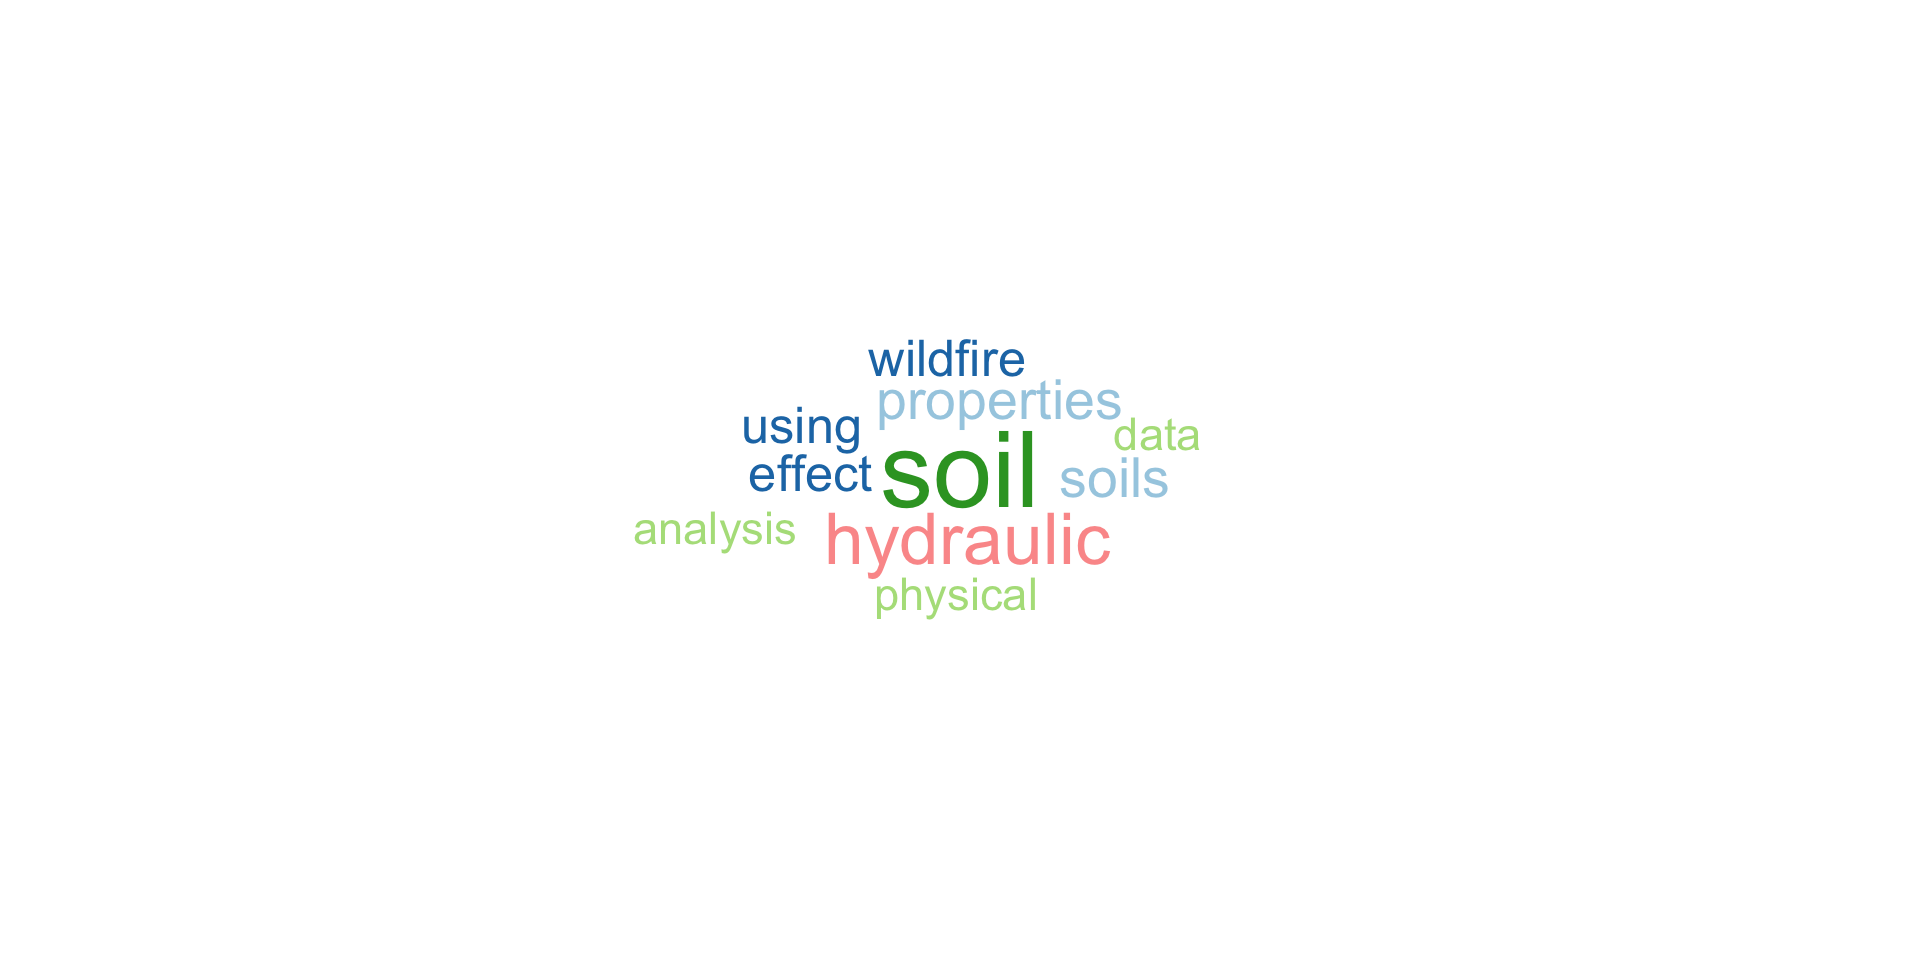
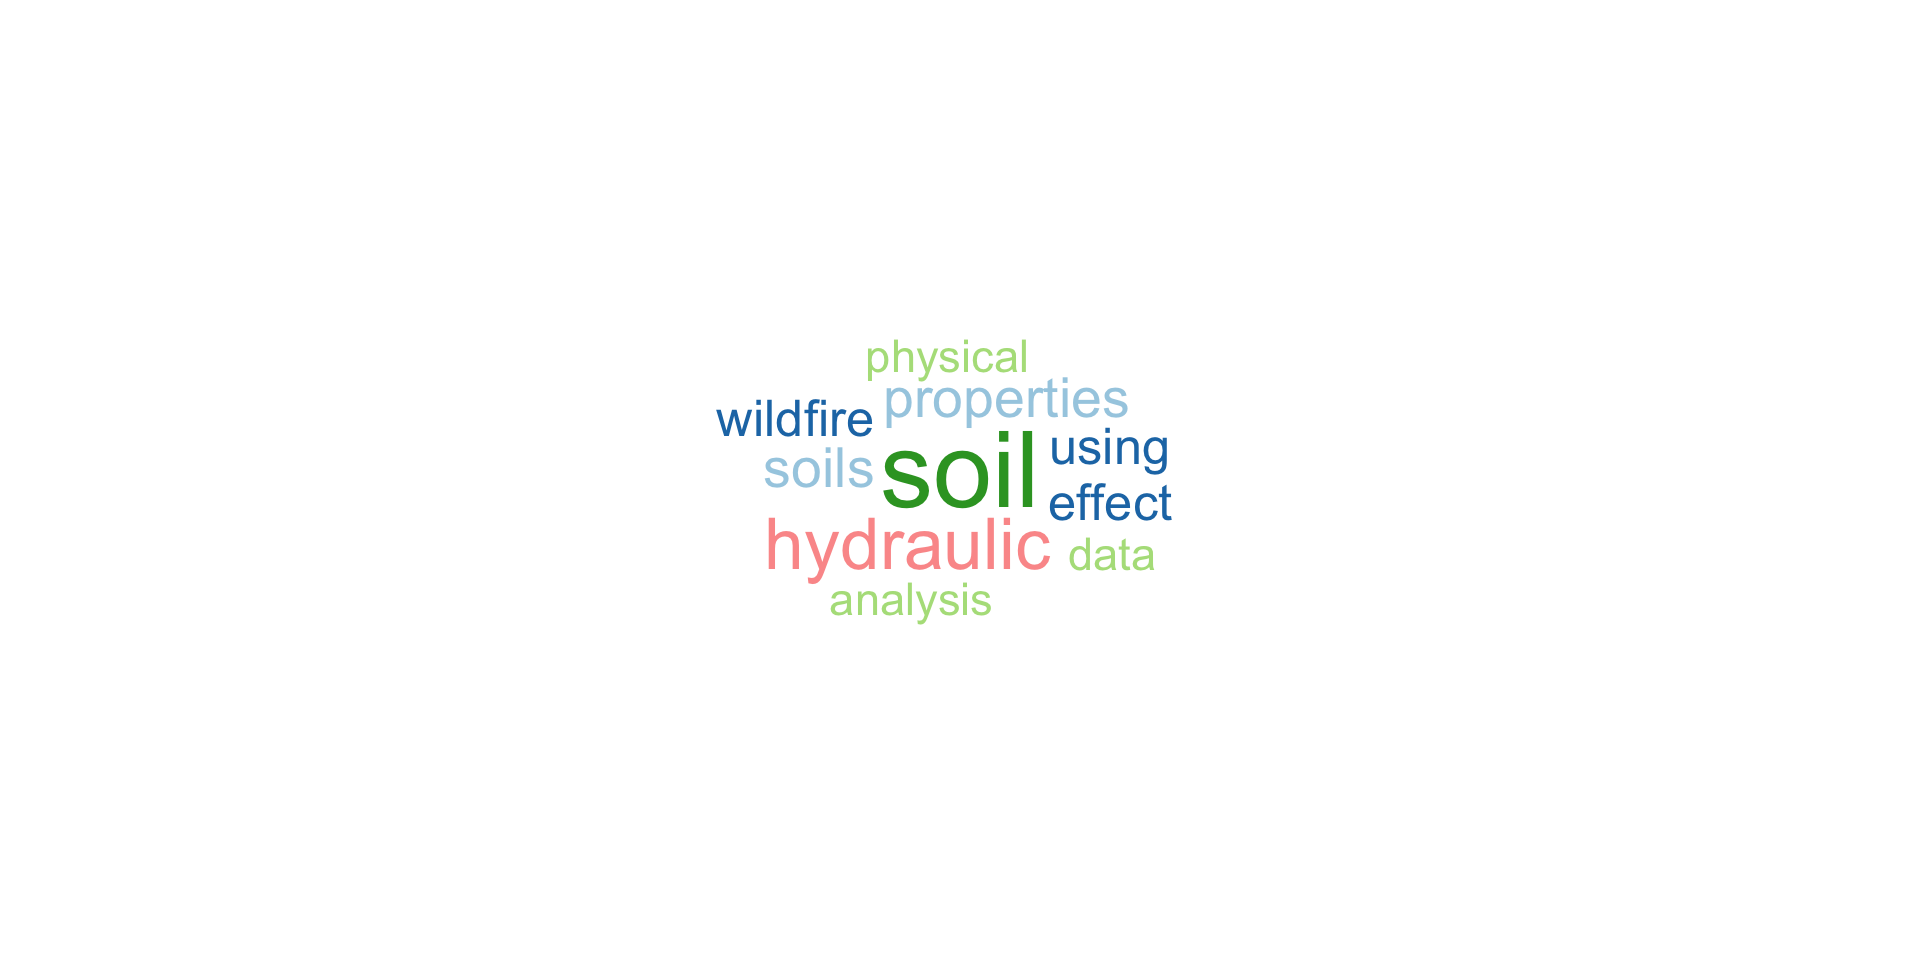
remove pedotransferencia

Changed region(s): [[0.3125, 0.3438, 0.625, 0.6562]]

diff --git a/docs/index.html b/docs/index.html
@@ -503,16 +503,11 @@ Dra. Sara E. Acevedo <a href="https://orcid.org/0000-0003-3203-2106" class="quar
 <h3 id="experimental-clásico-vs.-nuevo">Experimental: clásico vs.&nbsp;nuevo <sup>1</sup></h3>
 <p><img data-src="images/ajuste_pario.png"></p>
 <aside><ol class="aside-footnotes"><li id="fn5"><p><a href="https://doi.org/10.31545/intagr/144387">Acevedo et al., 2021. Testing the integral suspension pressure method for soil particle size analysis across a range of soil organic matter contents</a></p></li></ol></aside></section>
-<section id="física-de-suelos-5" class="slide level2">
-<h2>1. Física de suelos</h2>
-<h3 id="funciones-de-pedotransferencia">Funciones de pedotransferencia</h3>
-<iframe width="780" height="500" src="https://biofisica.shinyapps.io/SWRC/" title="Funciones de Pedotransferencia"></iframe>
-</section>
-<section id="física-de-suelos-6" class="slide level2" data-background-image="images/incendios.jpeg" data-background-size="55%">
+<section id="física-de-suelos-5" class="slide level2" data-background-image="images/incendios.jpeg" data-background-size="55%">
 <h2>1. Física de suelos</h2>
 <h3 id="sus-efectos-en-el-medioambiente">Sus efectos en el medioambiente <sup>1</sup></h3>
 <aside><ol class="aside-footnotes"><li id="fn6"><p><a href="https://doi.org/10.1016/j.jhydrol.2022.128919">Acevedo et al., 2023. Effect of data availability and pedotransfer estimates on water flow modelling in wildfire-affected soils</a></p></li></ol></aside></section>
-<section id="física-de-suelos-7" class="slide level2">
+<section id="física-de-suelos-6" class="slide level2">
 <h2>1. Física de suelos</h2>
 <h3 id="sus-efectos-en-el-medioambiente-1">Sus efectos en el medioambiente <sup>1</sup></h3>
 <div class="fragment fade-up">
@@ -536,7 +531,7 @@ Dra. Sara E. Acevedo <a href="https://orcid.org/0000-0003-3203-2106" class="quar
 </ul>
 </div>
 <aside><ol class="aside-footnotes"><li id="fn7"><p><a href="https://doi.org/10.1016/j.jhydrol.2022.128919">Acevedo et al., 2023. Effect of data availability and pedotransfer estimates on water flow modelling in wildfire-affected soils</a></p></li></ol></aside></section>
-<section id="física-de-suelos-8" class="slide level2">
+<section id="física-de-suelos-7" class="slide level2">
 <h2>1. Física de suelos</h2>
 <h3 id="suelos-quemados-son-diferentes">Suelos quemados son diferentes <sup>1</sup></h3>
 <div class="quarto-figure quarto-figure-center">
@@ -850,8 +845,8 @@ Dra. Sara E. Acevedo <a href="https://orcid.org/0000-0003-3203-2106" class="quar
 <div class="cell">
 <div class="cell-output-display">
 
-<div class="leaflet html-widget html-fill-item-overflow-hidden html-fill-item" id="htmlwidget-9ce5fa6a09a0d30f0378" style="width:960px;height:480px;"></div>
-<script type="application/json" data-for="htmlwidget-9ce5fa6a09a0d30f0378">{"x":{"options":{"crs":{"crsClass":"L.CRS.EPSG3857","code":null,"proj4def":null,"projectedBounds":null,"options":{}}},"calls":[{"method":"addProviderTiles","args":["OpenStreetMap.Mapnik",null,null,{"errorTileUrl":"","noWrap":false,"detectRetina":false}]},{"method":"addMarkers","args":[[38.538232,51.969187,-33.4996417,41.887667,27.979168,32.715736,29.492441,-50.9423262,-18.48027777,37.870151,45.8162432],[-121.761712,5.665395,-70.76693059999999,-87.62252100000001,-82.539337,-117.161087,-98.610573,-73.4067879,-70.32361111,-122.2594606,-119.28251],null,null,null,{"interactive":true,"draggable":false,"keyboard":true,"title":"","alt":"","zIndexOffset":0,"opacity":1,"riseOnHover":false,"riseOffset":250},["UC-Davis","Wageningen University","PUC","POSIT","SSSA","SSSA","SSSA","Muestreo","Muestreo","UC-Berkeley","Oregon State University"],null,null,null,["Master","Presentacion + round table","Pregrado y Grado de Doctor","Curso ánalisis de datos","Presentacion","Presentacion","Presentacion","Muestreo más austral","Muestreo más al norte","Pasantía + colaboración paper","Colaboración"],{"interactive":false,"permanent":false,"direction":"auto","opacity":1,"offset":[0,0],"textsize":"10px","textOnly":false,"className":"","sticky":true},null]}],"limits":{"lat":[-50.9423262,51.969187],"lng":[-122.2594606,5.665395]}},"evals":[],"jsHooks":[]}</script>
+<div class="leaflet html-widget html-fill-item-overflow-hidden html-fill-item" id="htmlwidget-c640529f024615a7de8b" style="width:960px;height:480px;"></div>
+<script type="application/json" data-for="htmlwidget-c640529f024615a7de8b">{"x":{"options":{"crs":{"crsClass":"L.CRS.EPSG3857","code":null,"proj4def":null,"projectedBounds":null,"options":{}}},"calls":[{"method":"addProviderTiles","args":["OpenStreetMap.Mapnik",null,null,{"errorTileUrl":"","noWrap":false,"detectRetina":false}]},{"method":"addMarkers","args":[[38.538232,51.969187,-33.4996417,41.887667,27.979168,32.715736,29.492441,-50.9423262,-18.48027777,37.870151,45.8162432],[-121.761712,5.665395,-70.76693059999999,-87.62252100000001,-82.539337,-117.161087,-98.610573,-73.4067879,-70.32361111,-122.2594606,-119.28251],null,null,null,{"interactive":true,"draggable":false,"keyboard":true,"title":"","alt":"","zIndexOffset":0,"opacity":1,"riseOnHover":false,"riseOffset":250},["UC-Davis","Wageningen University","PUC","POSIT","SSSA","SSSA","SSSA","Muestreo","Muestreo","UC-Berkeley","Oregon State University"],null,null,null,["Master","Presentacion + round table","Pregrado y Grado de Doctor","Curso ánalisis de datos","Presentacion","Presentacion","Presentacion","Muestreo más austral","Muestreo más al norte","Pasantía + colaboración paper","Colaboración"],{"interactive":false,"permanent":false,"direction":"auto","opacity":1,"offset":[0,0],"textsize":"10px","textOnly":false,"className":"","sticky":true},null]}],"limits":{"lat":[-50.9423262,51.969187],"lng":[-122.2594606,5.665395]}},"evals":[],"jsHooks":[]}</script>
 </div>
 </div>
 </section>
@@ -862,7 +857,7 @@ Dra. Sara E. Acevedo <a href="https://orcid.org/0000-0003-3203-2106" class="quar
 <li>Puedes ver el código con que creé esta presentación <a href="https://www.github.com/Saryace/seminario_seacevedo">aquí</a></li>
 <li>O puedes escanear este QR <div id="qrcode" class="qrcode"></div>
 <script type="text/javascript">
-var qrcode = new QRCode("qrcode", {"colorDark":"#000000","text":"https://www.github.com/Saryace/seminario_seacevedo","width":128,"colorLight":"#ffffff","height":128});
+var qrcode = new QRCode("qrcode", {"colorLight":"#ffffff","height":128,"colorDark":"#000000","text":"https://www.github.com/Saryace/seminario_seacevedo","width":128});
 </script>
     </li>
 </ul>
